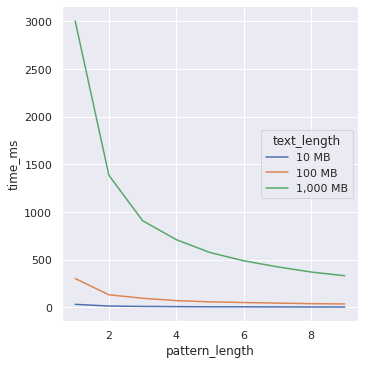
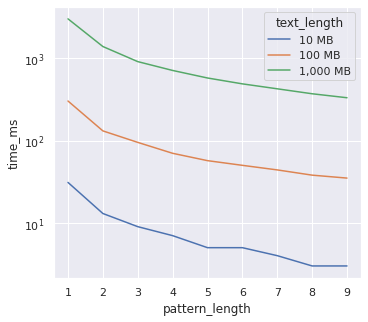
Add conclusion to report, fix graphes and header

diff --git a/report/main.tex b/report/main.tex
@@ -49,7 +49,7 @@
 
 In dieser Übersicht sollen dem Leser die verschiedenen Funktionen von AaS-Benchmark nähergebracht und mit einigen Beispielen demonstriert werden.
 
-Das Tool sowie der Quelltext lassen sich auf GitHub unter \hyperlink{https://github.com/lxndio/aas-benchmark}{\texttt{https://github.com/lxndio/aas-benchmark}} herunterladen.
+Das Tool sowie der Quelltext lassen sich auf GitHub unter \url{https://github.com/lxndio/aas-benchmark} herunterladen.
 
 \section{Algorithmen}
 
